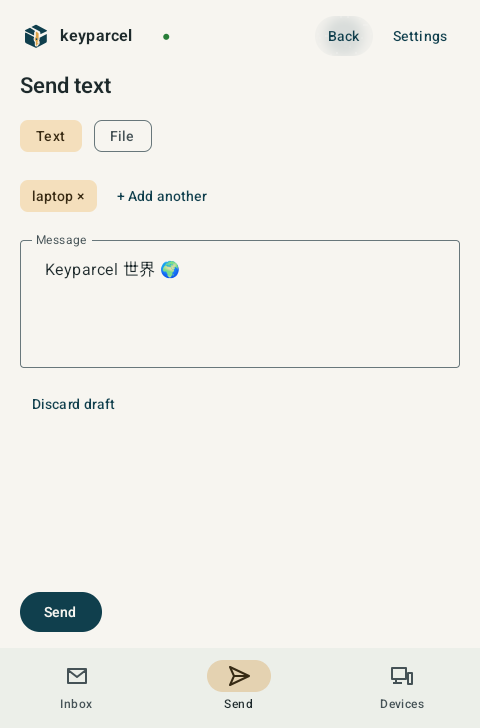
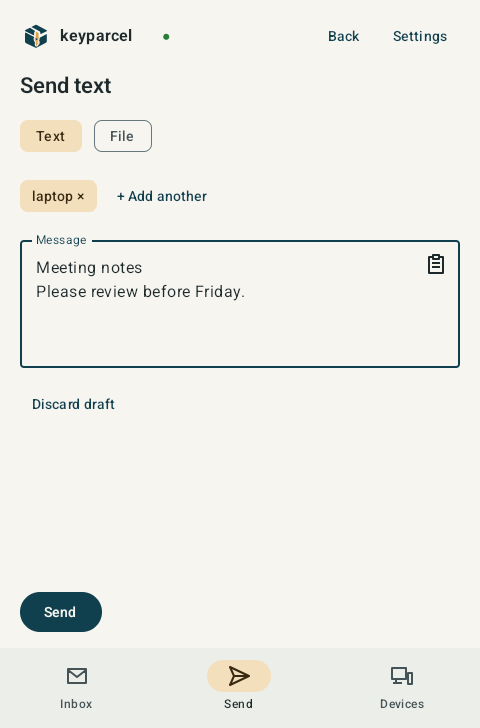
docs: link downloads and refresh Android preview

Changed region(s): [[0.0312, 0.3324, 0.5, 0.5137], [0.875, 0.3324, 0.9688, 0.5137], [0.6875, 0.0302, 0.75, 0.0907]]

diff --git a/android/client/app/src/androidTest/java/dev/keyparcel/app/ClientJourneyTest.kt b/android/client/app/src/androidTest/java/dev/keyparcel/app/ClientJourneyTest.kt
@@ -656,7 +656,6 @@ class ClientJourneyTest {
             compose.runOnIdle { clipboard.setPrimaryClip(ClipData.newIntent("fixture", android.content.Intent())) }
             compose.onNodeWithTag("paste-text").performTouchInput { click() }
             check(value("message") == "a世界!d") { "Non-text clipboard changed draft" }
-            field("message", "Meeting notes\nPlease review before Friday.")
             field("message", input)
         }
         click("devices-screen"); click("settings"); click("back")
@@ -677,7 +676,36 @@ class ClientJourneyTest {
             pasteBounds.top >= editorBounds.top && pasteBounds.center.y < editorBounds.center.y) {
             "Paste control is not at editor top-right: $pasteBounds vs $editorBounds"
         }
-        screenshot("send-paste")
+        field("message", "Meeting notes\nPlease review before Friday.")
+        InstrumentationRegistry.getInstrumentation().sendKeyDownUpSync(KeyEvent.KEYCODE_BACK)
+        compose.waitUntil(30_000) {
+            !imeAnimating && appHasFocus() && ViewCompat.getRootWindowInsets(compose.activity.window.decorView)
+                ?.isVisible(WindowInsetsCompat.Type.ime()) == false
+        }
+        val automation = InstrumentationRegistry.getInstrumentation().uiAutomation
+        val originalFlags = automation.serviceInfo.flags
+        automation.serviceInfo = automation.serviceInfo.apply {
+            flags = flags or AccessibilityServiceInfo.FLAG_RETRIEVE_INTERACTIVE_WINDOWS
+        }
+        try {
+            compose.waitUntil(30_000) {
+                val windows = automation.windows
+                windows.any { it.root?.packageName?.toString() == compose.activity.packageName } &&
+                    windows.none { window ->
+                        window.title?.toString() == "ClipboardOverlay" ||
+                            listOf("clipboard_preview", "minimized_preview").any { id ->
+                                window.root?.findAccessibilityNodeInfosByViewId("com.android.systemui:id/$id")
+                                    ?.any { it.isVisibleToUser } == true
+                            }
+                    }
+            }
+            compose.onNodeWithTag("paste-text").assertIsDisplayed()
+            screenshot("send-paste")
+        } finally {
+            automation.serviceInfo = automation.serviceInfo.apply { flags = originalFlags }
+        }
+        compose.onNodeWithTag("message").performTextReplacement(input)
+        check(value("message") == input) { "Screenshot capture changed the transfer fixture" }
         compose.onNodeWithTag("remove-recipient-laptop").assertExists()
         val discovery = requireNotNull(liveModel.discoverySnapshot)
         File(compose.activity.cacheDir, "send-discovery-ready").writeText("ready")

diff --git a/docs/installation.md b/docs/installation.md
@@ -2,11 +2,22 @@
 
 [Home](../README.md) · [Usage](usage.md) · [Security](../SECURITY.md)
 
-Build from source or make local [Linux and Android candidates](../release/README.md).
-Linux has separate CLI and GTK DEB/RPM packages and archives, tested on the baselines
-below. Local Android candidates are unsigned; the tag workflow signs an ARM64 APK
-and creates an unpublished draft. Public release downloads are not yet available.
-Automated ARM64 coverage is static; see the [current platform status](../README.md#clients).
+Download the [RC5 prerelease](https://github.com/keyparcel/keyparcel/releases/tag/v0.1.0-rc.5):
+
+- **Linux amd64:** install `keyparcel-cli`, `keyparcel-gtk`, or both. DEBs support
+  Ubuntu 24.04 and Debian 13; RPMs support Fedora 44. Separate binary archives
+  are available for the same baselines.
+- **Android ARM64:** install the signed APK on Android 8 or newer.
+
+Verify downloads against `SHA256SUMS` from the same release. Follow the
+[tagged installation guide](https://github.com/keyparcel/keyparcel/blob/v0.1.0-rc.5/release/INSTALLED.md)
+for package/archive commands and removal of the older combined `keyparcel` package
+before migration. Device-key enrollment is still required; see below.
+
+Source builds are described in the client sections below. Local
+[candidate builds](../release/README.md) keep Android APKs unsigned; the tag workflow
+signs them and prepares a draft for manual publication. Automated ARM64 checks are
+static, not runtime or upgrade assurance; see the [current platform status](../README.md#clients).
 
 ## Server and device keys
 

diff --git a/README.md b/README.md
@@ -36,7 +36,11 @@ Share text and files between your devices through your own SSH server.
 
 ## Quick start
 
-With Go, Make and OpenSSH installed, and a dedicated device key **already enrolled**
+Download the [RC5 prerelease](https://github.com/keyparcel/keyparcel/releases/tag/v0.1.0-rc.5)
+for Linux CLI/GTK packages, binary archives and the signed Android APK. See
+[installation and enrollment](docs/installation.md) before connecting.
+
+For a source build, with Go, Make and OpenSSH installed, and a dedicated device key **already enrolled**
 on an SSH/SFTP server reachable as `parcel-vps`:
 
 ```sh
@@ -68,8 +72,7 @@ The CLI is exercised on Linux; limited native Intel macOS validation also covers
 its clipboard support. Android runtime tests use hosted x86_64 emulators; ARM64
 builds are checked statically. RC5 was also manually tested with GTK on Linux and
 on a physical ARM64 Android device. Linux DEB/RPM/archive and Android builds can be
-made from source. Signed prerelease candidates remain unpublished; public release
-downloads are not yet available. This is development software.
+made from source. This is development software; RC5 is a prerelease for evaluation.
 
 ## Limitations
 

diff --git a/android/client/docs/gallery/README.md b/android/client/docs/gallery/README.md
@@ -2,7 +2,7 @@
 
 Actual Send screen captured by the hosted Android journey on the production UI.
 Only the Android status and navigation bars have been cropped. The recipient and
-message are disposable example data.
+English message are disposable example data.
 
 ![Choose a recipient and compose a message](send.png)
 
